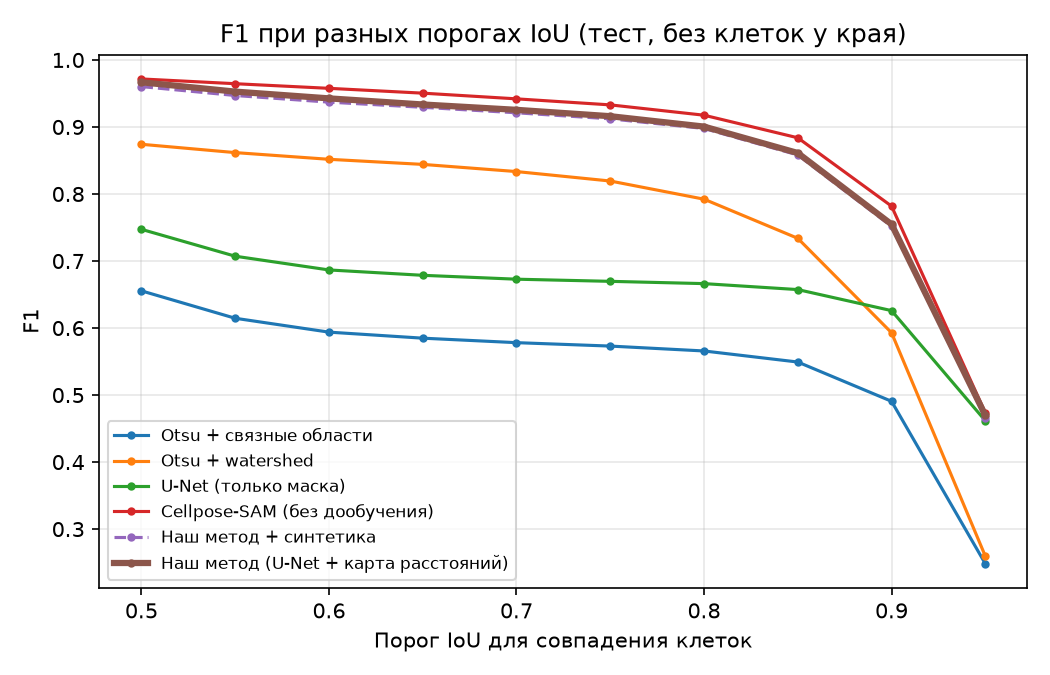
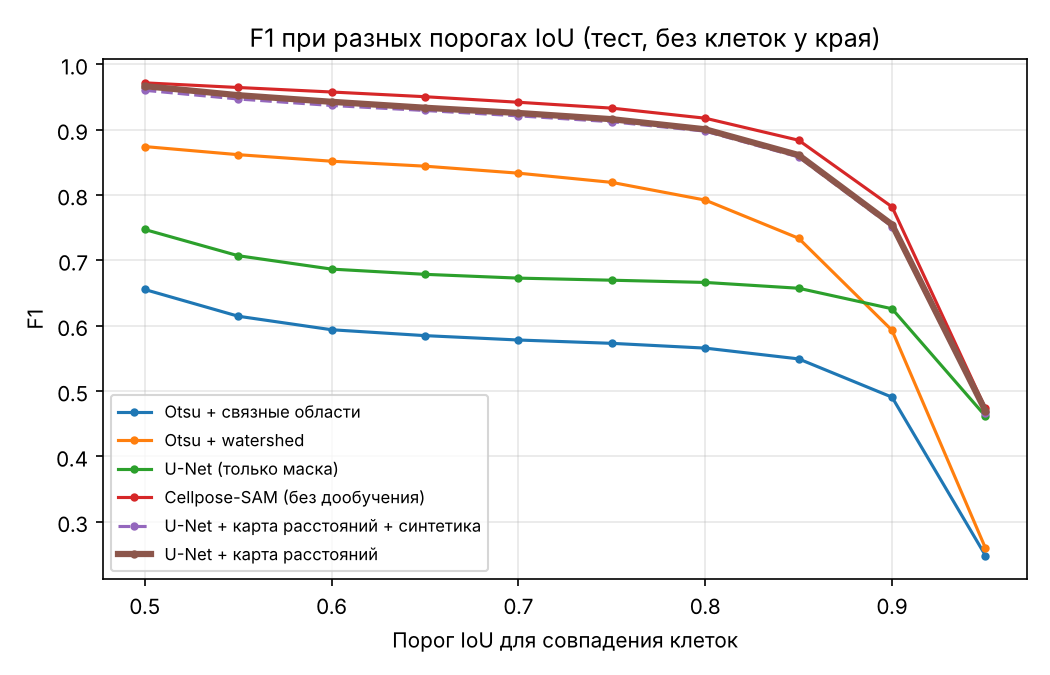
docs: rename method labels from 'our method' to descriptive names

diff --git a/scripts/make_report_figures.py b/scripts/make_report_figures.py
@@ -38,8 +38,8 @@ METHODS = [
     ("otsu_watershed", "Otsu + watershed"),
     ("unet_mask_only", "U-Net (только маска)"),
     ("cellpose", "Cellpose-SAM (без дообучения)"),
-    ("unet_dist_synth_tuned", "Наш метод + синтетика"),
-    ("unet_dist_tuned", "Наш метод (U-Net + карта расстояний)"),
+    ("unet_dist_synth_tuned", "U-Net + карта расстояний + синтетика"),
+    ("unet_dist_tuned", "U-Net + карта расстояний"),
 ]
 
 COLUMNS = [
@@ -245,7 +245,7 @@ def make_comparisons(n_images, crop_size):
         cellpose_path = cellpose_dir / (stem + ".png")
         if cellpose_path.exists():
             panels.append(("Cellpose-SAM", None, np.array(Image.open(cellpose_path)).astype(np.int32)))
-        panels.append(("Наш метод", None,
+        panels.append(("U-Net + карта расстояний", None,
                        segment(model_dist, image, device, postprocess=config_dist["postprocess"],
                                fg_threshold=best["fg_threshold"], seed_threshold=best["seed_threshold"])))
 

diff --git a/scripts/run_cellpose.py b/scripts/run_cellpose.py
@@ -1,7 +1,7 @@
-"""Сегментация снимков готовой моделью Cellpose (без дообучения на наших данных).
+"""Сегментация снимков готовой моделью Cellpose (без дообучения на BBBC041Seg).
 
 Cellpose ставится в ОТДЕЛЬНОЕ окружение (у него свои требования к версиям Python и PyTorch),
-поэтому этот скрипт только сохраняет предсказания в файлы, а метрики считает наш evaluate.py:
+поэтому этот скрипт только сохраняет предсказания в файлы, а метрики считает scripts/evaluate.py:
 
     # в окружении Cellpose:
     python scripts/run_cellpose.py --split test

diff --git a/src/postprocess.py b/src/postprocess.py
@@ -19,7 +19,7 @@ def components(fg_prob, fg_threshold=0.5):
 
 
 def distance_watershed(fg_prob, dist, fg_threshold=0.5, seed_threshold=0.5):
-    """Наш метод: маркеры из карты расстояний + watershed.
+    """Метод с картой расстояний: маркеры из карты расстояний + watershed.
 
     1. Маска клеток: fg_prob > fg_threshold.
     2. Маркеры (центры клеток): dist > seed_threshold.

diff --git a/results/figures/tables.md b/results/figures/tables.md
@@ -8,8 +8,8 @@
 | Otsu + watershed | 0.909 | 0.842 | 0.874 | 0.819 | 0.622 | 0.755 | 0.148 | 0.014 | 0.105 | 0.938 | 0.441 |
 | U-Net (только маска) | 0.892 | 0.643 | 0.747 | 0.67 | 0.494 | 0.603 | 0.398 | **0.0** | 0.228 | 0.944 | 0.297 |
 | Cellpose-SAM (без дообучения) | **0.973** | 0.97 | **0.972** | **0.933** | **0.806** | **0.9** | 0.016 | 0.013 | **0.024** | 0.961 | 8.576 |
-| Наш метод + синтетика | 0.947 | 0.974 | 0.96 | 0.912 | 0.774 | 0.894 | 0.017 | 0.034 | 0.035 | **0.967** | 0.395 |
-| Наш метод (U-Net + карта расстояний) | 0.956 | **0.978** | 0.967 | 0.916 | 0.781 | 0.895 | **0.013** | 0.031 | 0.03 | **0.967** | 0.381 |
+| U-Net + карта расстояний + синтетика | 0.947 | 0.974 | 0.96 | 0.912 | 0.774 | 0.894 | 0.017 | 0.034 | 0.035 | **0.967** | 0.395 |
+| U-Net + карта расстояний | 0.956 | **0.978** | 0.967 | 0.916 | 0.781 | 0.895 | **0.013** | 0.031 | 0.03 | **0.967** | 0.381 |
 
 Снимков: 199, клеток в разметке: 11500.
 
@@ -21,7 +21,7 @@
 | Otsu + watershed | 0.818 | 0.846 | 0.832 | 0.77 | 0.566 | 0.735 | 0.144 | 0.025 | 0.158 | 0.932 | 0.466 |
 | U-Net (только маска) | 0.825 | 0.658 | 0.732 | 0.658 | 0.48 | 0.599 | 0.397 | **0.001** | 0.179 | 0.953 | 0.279 |
 | Cellpose-SAM (без дообучения) | **0.951** | 0.961 | **0.956** | **0.915** | **0.776** | **0.886** | 0.017 | 0.015 | **0.045** | 0.955 | 8.576 |
-| Наш метод + синтетика | 0.904 | 0.971 | 0.936 | 0.885 | 0.736 | 0.877 | 0.019 | 0.041 | 0.08 | 0.961 | 0.395 |
-| Наш метод (U-Net + карта расстояний) | 0.914 | **0.976** | 0.944 | 0.891 | 0.746 | 0.879 | **0.015** | 0.037 | 0.07 | **0.961** | 0.366 |
+| U-Net + карта расстояний + синтетика | 0.904 | 0.971 | 0.936 | 0.885 | 0.736 | 0.877 | 0.019 | 0.041 | 0.08 | 0.961 | 0.395 |
+| U-Net + карта расстояний | 0.914 | **0.976** | 0.944 | 0.891 | 0.746 | 0.879 | **0.015** | 0.037 | 0.07 | **0.961** | 0.366 |
 
 Снимков: 199, клеток в разметке: 13589.
